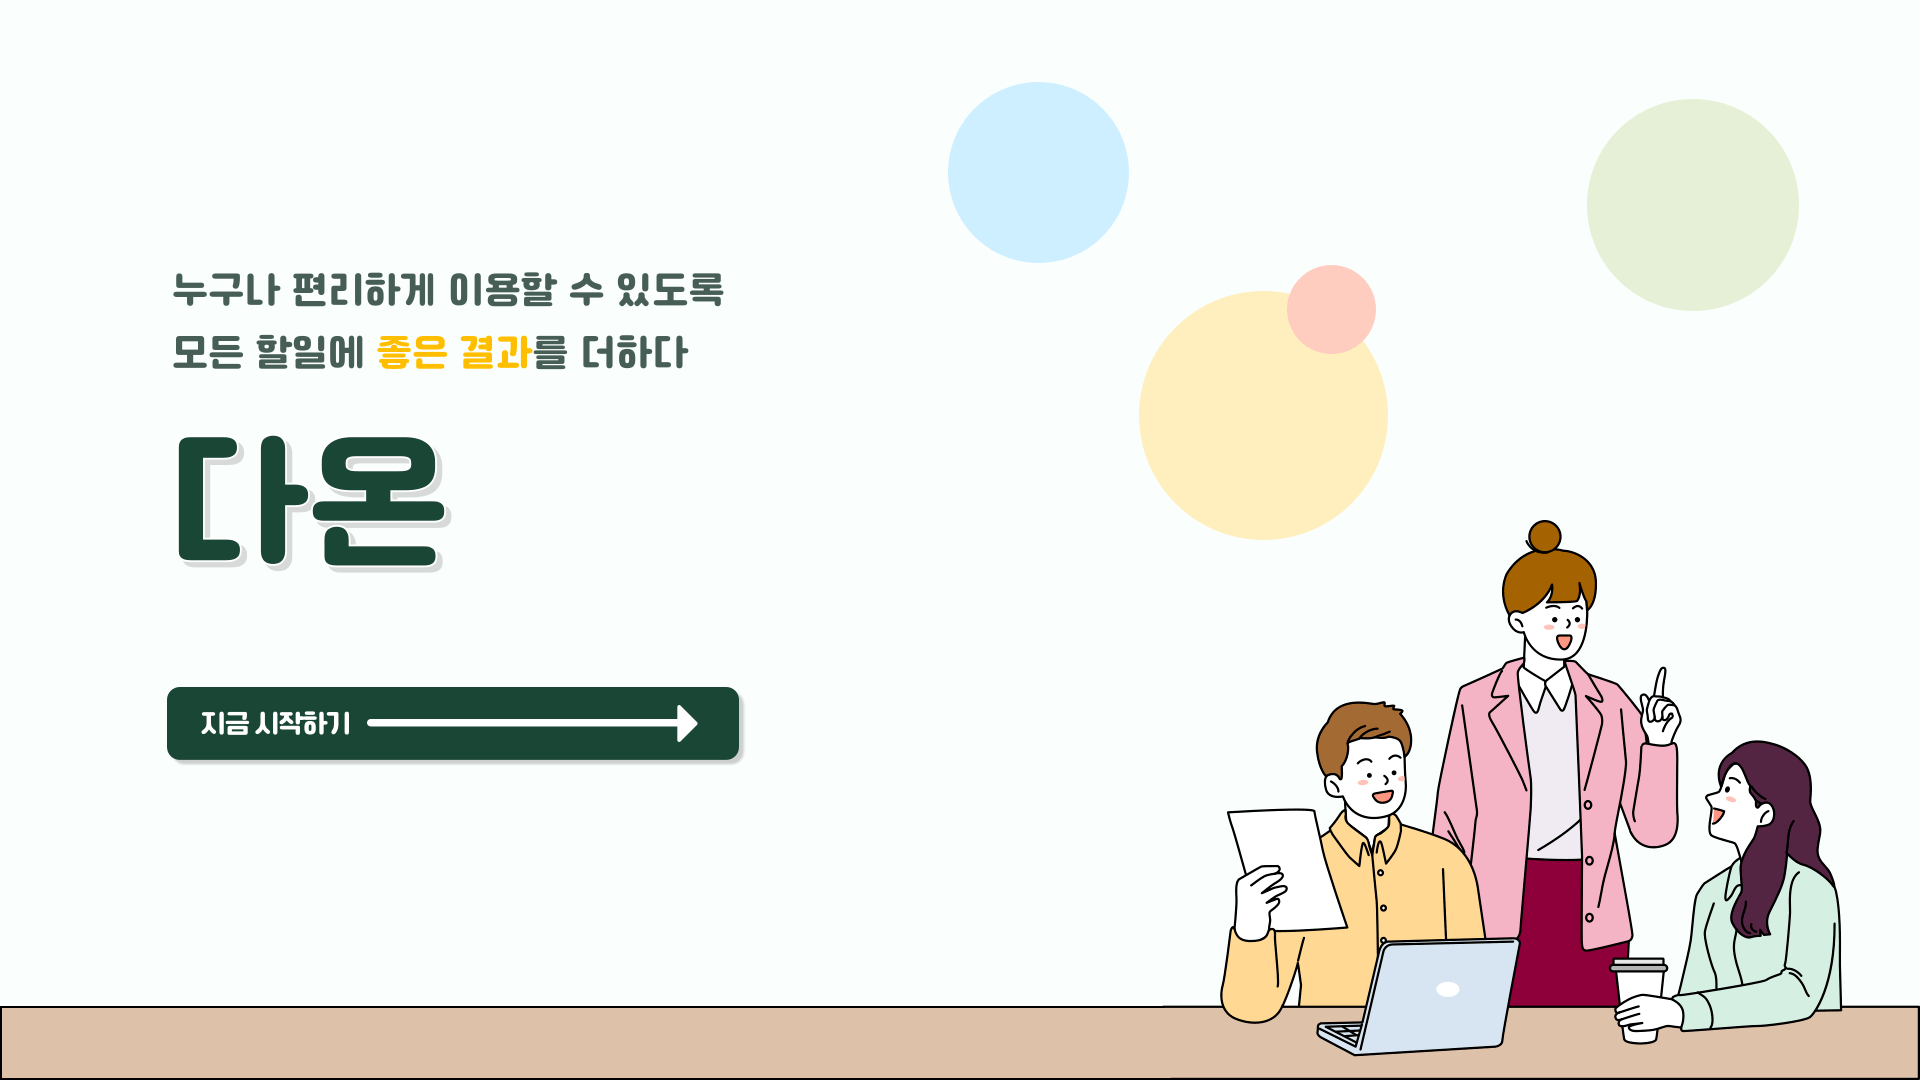
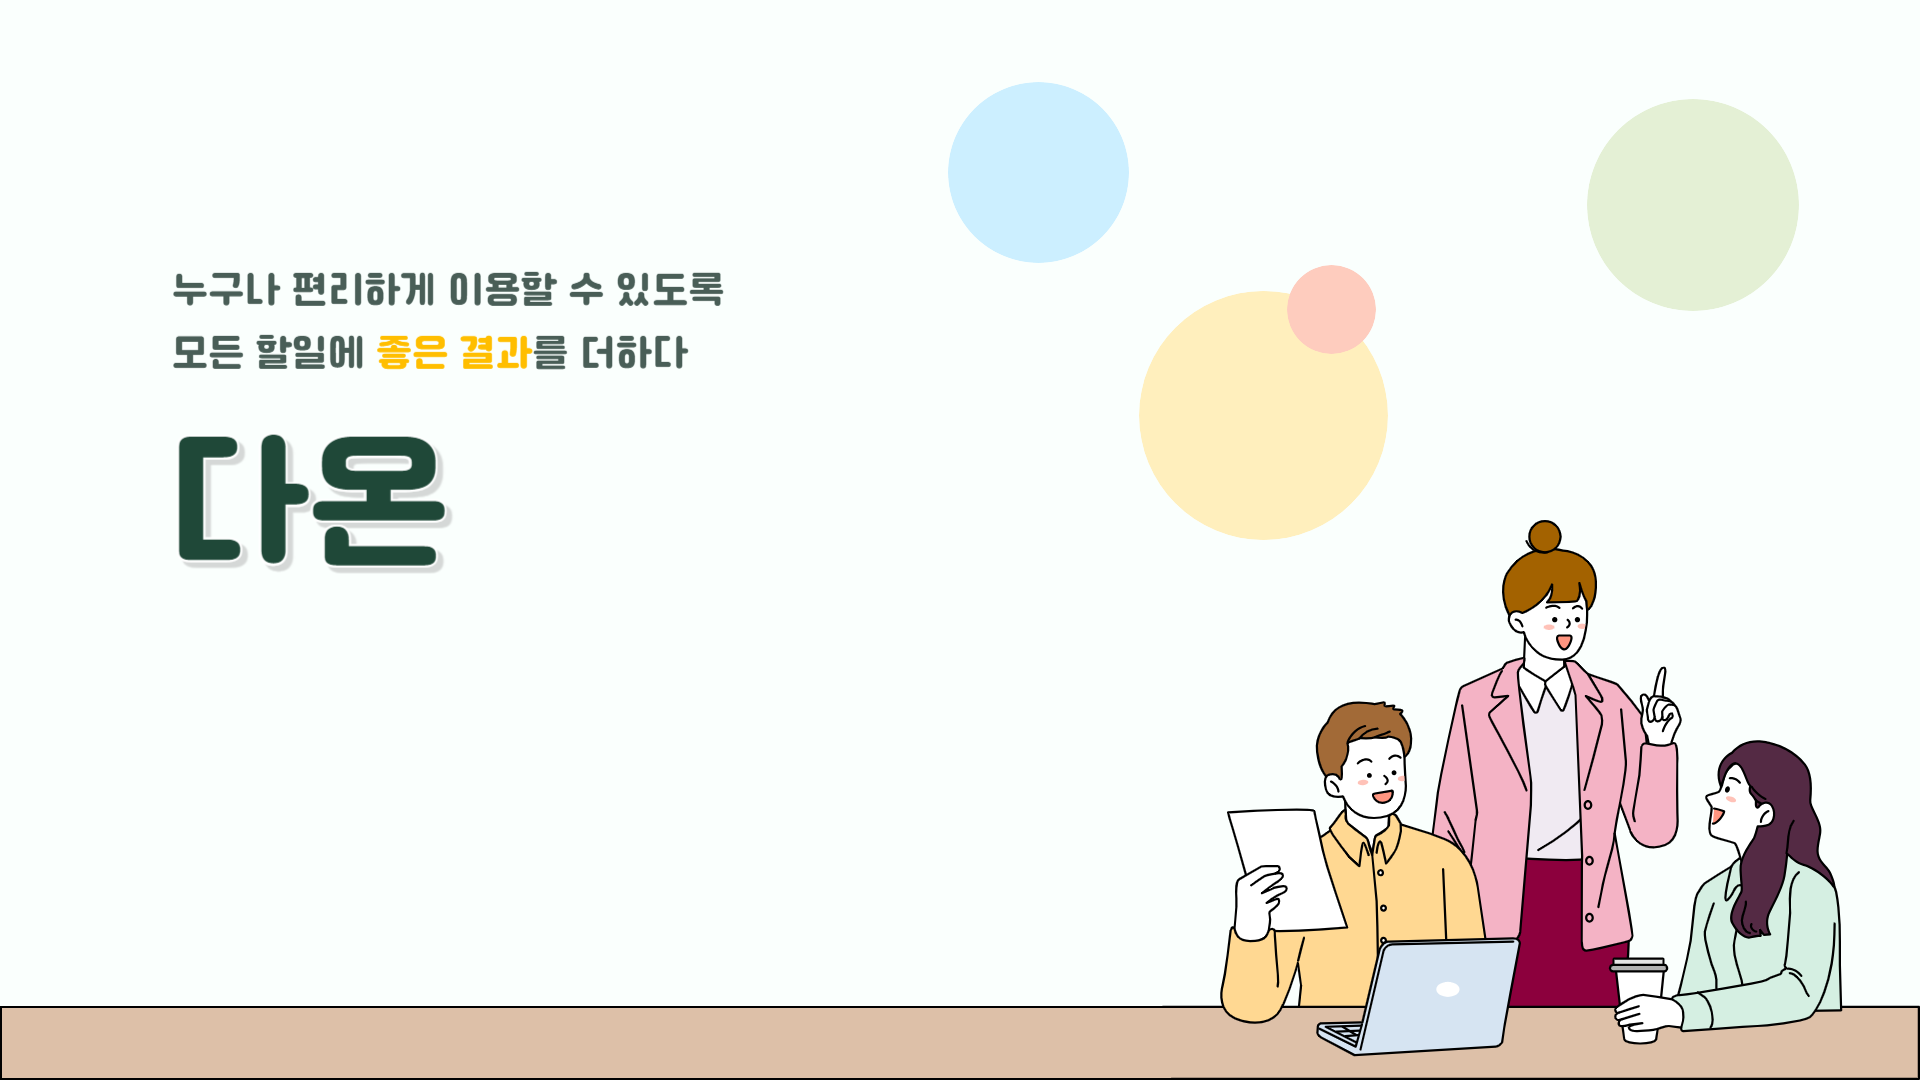
💄[style] 랜딩 버튼

diff --git a/src/pages/Landing.tsx b/src/pages/Landing.tsx
@@ -7,13 +7,14 @@ import landingOne from "assets/img/landing1.webp"
 import landingTwo from "assets/img/landing2.webp"
 import landingThree from "assets/img/landing3.webp"
 import landingFour from "assets/img/landing4.webp"
+import arrow from "assets/img/arrow.webp"
 
 function Landing() {
-  const tokenState = getTokenStore()
+  const { token } = getTokenStore()
   const navigate = useNavigate()
 
   const start = async () => {
-    if (!tokenState) {
+    if (!token) {
       navigate("/sign-in")
     } else {
       navigate("/workspace/me")
@@ -54,16 +55,18 @@ function Landing() {
                 variant="contained"
                 color="primary"
                 sx={{
-                  width: "325px",
+                  width: "357px",
                   height: "40px",
                   position: "absolute",
-                  left: "30.5%",
+                  left: "23.5%",
                   transform: "translateX(-50%)",
-                  marginTop: "398px",
+                  marginTop: "432px",
+                  boxShadow: "3px 3px 1px #cccfce",
                 }}
                 onClick={start}
               >
-                지금 시작하기
+                <span style={{ marginRight: "15px" }}>지금 시작하기</span>
+                <img src={arrow} alt="" style={{ width: "180px" }} />
               </Button>
             </Box>
             <Box component="img" src={landingOne} style={{ width: "100%" }} />
